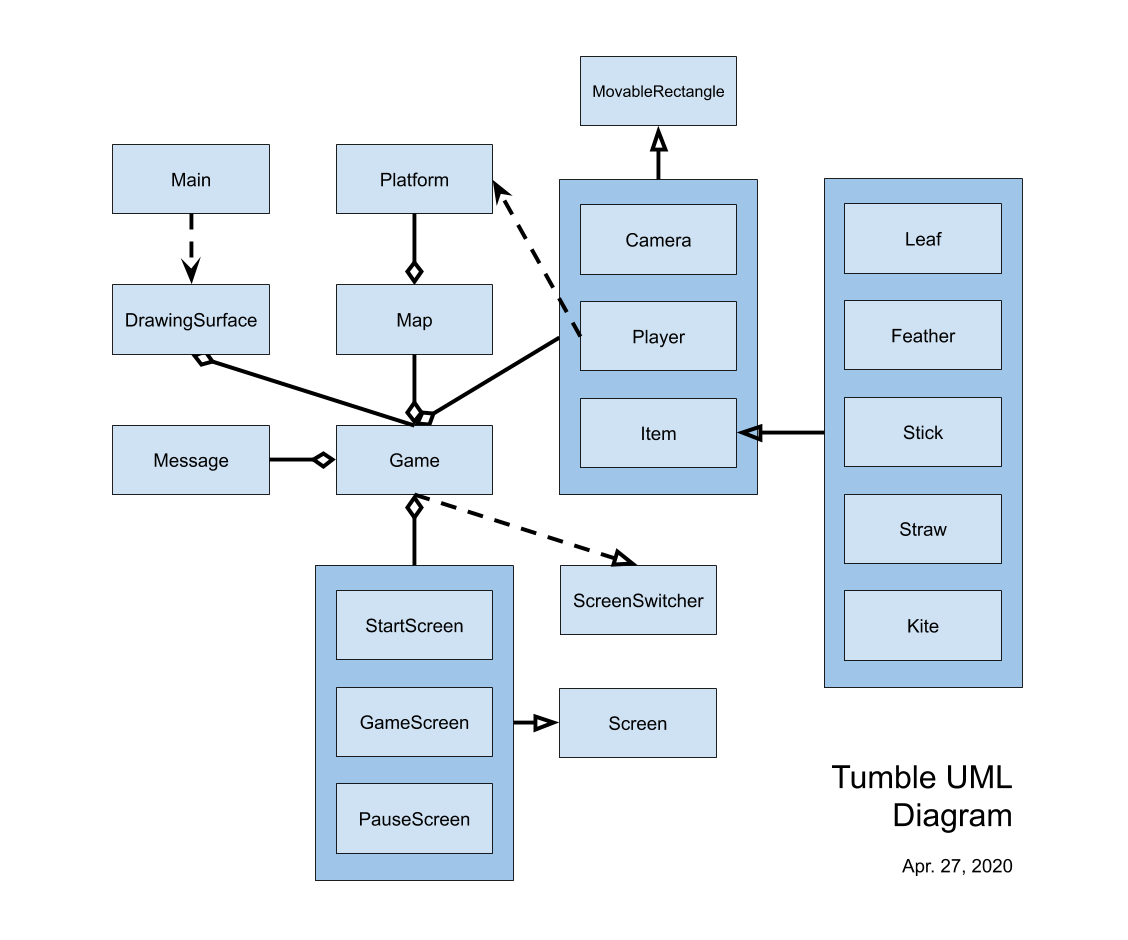
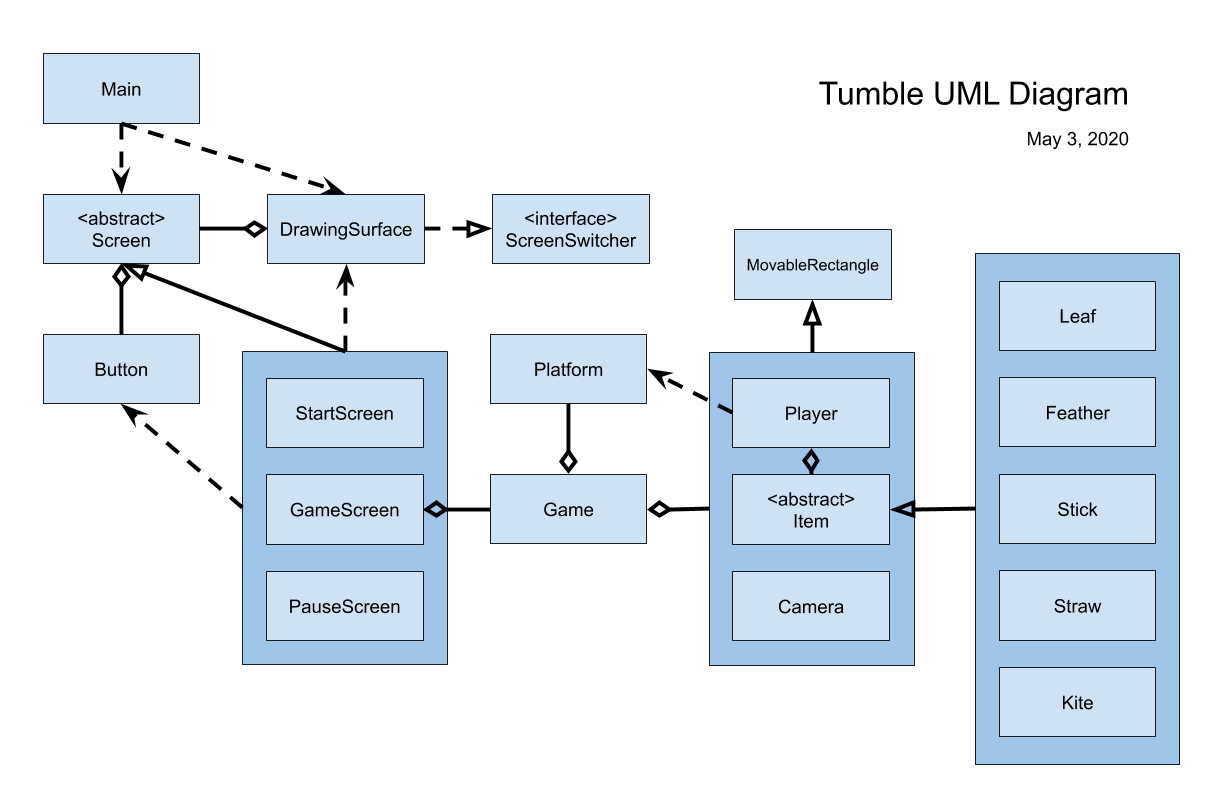
Updated UML and README.

diff --git a/Tumble/src/game/Player.java b/Tumble/src/game/Player.java
@@ -1,6 +1,8 @@
 package game;
+
 import java.util.ArrayList;
 import processing.core.PApplet;
+import items.*;
 
 /**
  * Represents a movable ellipse with basic physics and rectangular collision detection.
@@ -27,20 +29,44 @@ public class Player extends MovableRectangle {
 	}
 
 	/**
-	 * Accelerates this player horizontally.
-	 * @param a - amount to accelerate by 
+	 * Accelerates this player to the left.
 	 */
-	public void roll(float a) {
-		accelerate(a, 0);
+	public void rollLeft() {
+		for (Item i : items) {
+			if (i instanceof Leaf) {
+				accelerate(-1.2f, 0);
+				return;
+			}
+		}
+		accelerate(-1, 0);
+	}
+
+	/**
+	 * Accelerates this player to the right.
+	 */
+	public void rollRight() {
+		for (Item i : items) {
+			if (i instanceof Leaf) {
+				accelerate(1.2f, 0);
+				return;
+			}
+		}
+		accelerate(1, 0);
 	}
 
 	/**
 	 * Accelerates this player vertically.
 	 */
-	public void jump(float a) {
+	public void jump() {
 		if (canJump) {
-			accelerate(0, -a);
 			canJump = false;
+			for (Item i : items) {
+				if (i instanceof Feather) {
+					accelerate(0, -18);
+					return;
+				}
+			}
+			accelerate(0, -16);
 		}
 	}
 

diff --git a/Tumble/src/gui/ScreenSwitcher.java b/Tumble/src/gui/ScreenSwitcher.java
@@ -1,16 +1,22 @@
 package gui;
+
 /**
- * Represents the mechanism for switching screens
- * Credit to ProcessingScreenSwitching from Demos Folder
+ * Represents the mechanism for switching screens.
+ * Credit to ProcessingScreenSwitching from Demos Folder.
  * @author Amanda Xu
  * @version 4/28/20
  */
 public interface ScreenSwitcher {
 	
-	public static final int START_SCREEN = 0;
-	public static final int GAME_SCREEN = 1;
-	public static final int PAUSE_SCREEN = 2;
+	/**
+	 * Screen constants.
+	 */
+	public static final int START_SCREEN = 0, GAME_SCREEN = 1, PAUSE_SCREEN = 2;
 	
-	public void switchScreen(int i);
+	/**
+	 * Changes active screen to given screen. 
+	 * @param s - screen to be switched to
+	 */
+	public void switchScreen(int s);
 	
 }

diff --git a/Tumble/src/game/Game.java b/Tumble/src/game/Game.java
@@ -36,7 +36,7 @@ public class Game {
 		items.add(new Leaf(200, 350));
 		items.add(new Feather(300, 350));
 		items.add(new Stick(450, 350));
-		items.add(new Straw(500, 350));
+		items.add(new Straw(500, 370));
 		items.add(new Kite(600, 350));
 		
 		camera = new Camera(800f/2, 600f/2, 800f, 600f);
@@ -50,11 +50,11 @@ public class Game {
 	public void update(ArrayList<Integer> keys) {
 		
 		if (keys.contains(KeyEvent.VK_LEFT))
-			player.roll(-1);
+			player.rollLeft();
 		if (keys.contains(KeyEvent.VK_RIGHT))
-			player.roll(1);
+			player.rollRight();
 		if (keys.contains(KeyEvent.VK_UP))
-			player.jump(16);
+			player.jump();
 
 		player.update(platforms, items);
 

diff --git a/Tumble/src/game/Camera.java b/Tumble/src/game/Camera.java
@@ -1,4 +1,5 @@
 package game;
+
 /**
  * Represents the area of the map shown to players at a given moment.
  * @author Julia Gu

diff --git a/Tumble/src/game/Platform.java b/Tumble/src/game/Platform.java
@@ -1,4 +1,5 @@
 package game;
+
 import java.awt.geom.Rectangle2D;
 import processing.core.PApplet;
 

diff --git a/Tumble/src/gui/Button.java b/Tumble/src/gui/Button.java
@@ -1,4 +1,5 @@
 package gui;
+
 import java.awt.geom.Ellipse2D;
 
 import processing.core.PApplet;

diff --git a/Tumble/src/game/MovableRectangle.java b/Tumble/src/game/MovableRectangle.java
@@ -1,4 +1,5 @@
 package game;
+
 import java.awt.geom.Rectangle2D;
 
 /**

diff --git a/Tumble/src/game/Item.java b/Tumble/src/game/Item.java
@@ -1,4 +1,5 @@
 package game;
+
 import processing.core.PApplet;
 
 /**

diff --git a/Tumble/src/gui/Screen.java b/Tumble/src/gui/Screen.java
@@ -1,4 +1,5 @@
 package gui;
+
 import java.util.ArrayList;
 
 /**
